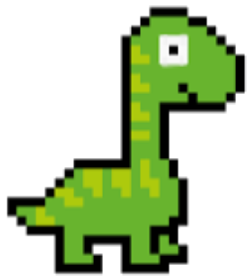
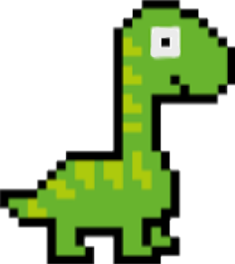
Changes

diff --git a/Jahresarbeit-App/dinospiel/script.js b/Jahresarbeit-App/dinospiel/script.js
@@ -1,21 +1,9 @@
 
-const OVERLAY_KLASSE = "overlay";
-const OVERLAY_TEXT_KLASSE = "overlay-text";
-const OVERLAY_BUTTON_KLASSE = "overlay-button";
-const SICHTBAR_KLASSE = "sichtbar";
-
-const overlay = document.querySelector("." + OVERLAY_KLASSE);
-const overlayText = document.querySelector("." + OVERLAY_TEXT_KLASSE);
-const overlayButton = document.querySelector("." + OVERLAY_BUTTON_KLASSE);
 var character =
 document.getElementById("character");
 var block = document.getElementById("block");
 
-function spielBeenden() {
-   if (checkDead === true) {
-      overlay.classList.add(SICHTBAR_KLASSE);   
-   }
-}
+
 
 function jump(){
 character.classList.add("animate");
@@ -31,10 +19,20 @@ var checkDead = setInterval(function(){
 var characterTop =parseInt(window.getComputedStyle(character).getPropertyValue("Top"));
 var blockLeft =parseInt(window.getComputedStyle(block).getPropertyValue("left"));
 if(blockLeft<91 && blockLeft>0 && characterTop>=300){
-   block.style.animation = "none";
-   block.style.display = "none";
-   alert("Du hast verloren!!!")
+   caught()
+   //block.style.animation = "none";
+   //block.style.display = "none";
+   
 
-   spielBeenden();
 }
 }, -30);
+
+var dinoAlert = document.getElementById('dino-alert');
+dinoAlert.style.display = 'none';
+function caught() {
+   blocker.style.display = '';
+   instructions.innerHTML = "GAME OVER </br></br></br> Press ESC to restart";
+   gameOver = true;
+   instructions.style.display = '';
+   dinoAlert.style.display = 'none';
+}

diff --git a/Jahresarbeit-App/dinospiel/style.css b/Jahresarbeit-App/dinospiel/style.css
@@ -4,17 +4,17 @@ margin: 0;
 }
 
 #game{
-width: 1536px;
+width: 100%;
 height: 864px;
 background-image: url(../images/hintergrund3-modified.jpg);
 }
 
 #character { 
-width: 250px;
-height: 279px;
+width: 235px;
+height: 263px;
 left: 70px;
 position: relative;
-top: 500px;
+top: 560px;
 background-image: url(../images/dinobild-modified-modified.png);
 }
 
@@ -41,11 +41,11 @@ animation: jump 2s;
 }
 
 #block{
-width: 100px;
-height: 152px;
+width: 94px;
+height: 147px;
 background-image: url(../images/kaktus2-modified-modified.png);
 position: relative;
-top: 345px;
+top: 413px;
 left: 370px;
 animation: block 3s infinite linear;
 }
@@ -55,22 +55,13 @@ animation: block 3s infinite linear;
 100%{left: 0px;}
 }
 
-.overlay-text {
-    font-size: clamp(2rem, 10vh, 4rem);
-    font-weight: 900;
-    text-align: center;
-}
+#dino-alert {
+    position: absolute;
+color: #aa0909;
+    width: 100%;
+    height: 5%;
+text-align: center;
+padding-top:2%;
+vertical-align:middle;
 
-.overlay {
-    background: linear-gradient(to bottom, gold, rgb(133, 129, 20));
-    position: fixed;
-    inset: 0;
-    color: #000000;
-    display: flex;
-    flex-direction: column;
-    justify-content: center;
-    align-items: center;
-    gap: clamp(1rem, 2vh, 4rem);
-    opacity: 0;
-    pointer-events: none;
 }

diff --git a/Jahresarbeit-App/index.css b/Jahresarbeit-App/index.css
@@ -45,5 +45,43 @@ body {
 .ueberschrift {
         font-weight: 600;
         height:20px;
+        font-size: 4rem;
 }
 
+.btn-10 {
+    background: rgb(22,9,240);
+  background: linear-gradient(0deg, rgba(22,9,240,1) 0%, rgba(49,110,244,1) 100%);
+    color: #fff;
+    border: none;
+    transition: all 4.3s ease;
+    overflow: hidden;
+    text-decoration: none;
+    font-size: 2rem;
+    font-weight: 600;
+    padding: 0.5em 1em;
+    border-radius: 2rem/50%;
+  }
+  .btn-10:after {
+    position: absolute;
+    content: " ";
+    top: 0;
+    left: 0;
+    z-index: -1;
+    width: 100%;
+    height: 100%;
+    transition: all 0.3s ease;
+    -webkit-transform: scale(.1);
+    transform: scale(.1);
+  }
+  .btn-10:hover {
+    color: #fff;
+    border: none;
+    background: transparent;
+  }
+  .btn-10:hover:after {
+    background: rgb(0,3,255);
+  background: linear-gradient(0deg, rgba(2,126,251,1) 0%,  rgba(0,3,255,1)100%);
+    -webkit-transform: scale(1);
+    transform: scale(1);
+  }
+  

diff --git a/Jahresarbeit-App/index.html b/Jahresarbeit-App/index.html
@@ -8,10 +8,8 @@
     <script src="index.js"></script>
 </head>
 <body>
-
- 
     <h1 class="ueberschrift">Jahresarbeit "Programmieren" von Erik</h1>
+    <a class="custom-btn btn-10" href="Dinospiel/indexdino.html" type="button">Dinospiel</a>
     <a class="tic-tac-toe-button" href="tic-tac-toe/Indextictactoe.html" type="button">Tic-Tac-Toe</a>
-    <a class="dinospiel-button" href="Dinospiel/indexdino.html" type="button">Dinospiel</a>
 </body>
 </html>

diff --git a/Jahresarbeit-App/dinospiel/indexdino.html b/Jahresarbeit-App/dinospiel/indexdino.html
@@ -10,11 +10,10 @@
 <div id="game">
     <div id="character"></div>
     <div id="block"></div>
-</div>    
-<div class="overlay">
-    <p class="overlay-text">Das ist Platzhaltertext</p>
-<button class="overlay-button">Try Again</button>
-</div>
+</div> 
+<div id="dino-alert">
+
+</div>   
 </body>
 <script src="script.js"></script>
 </html>
